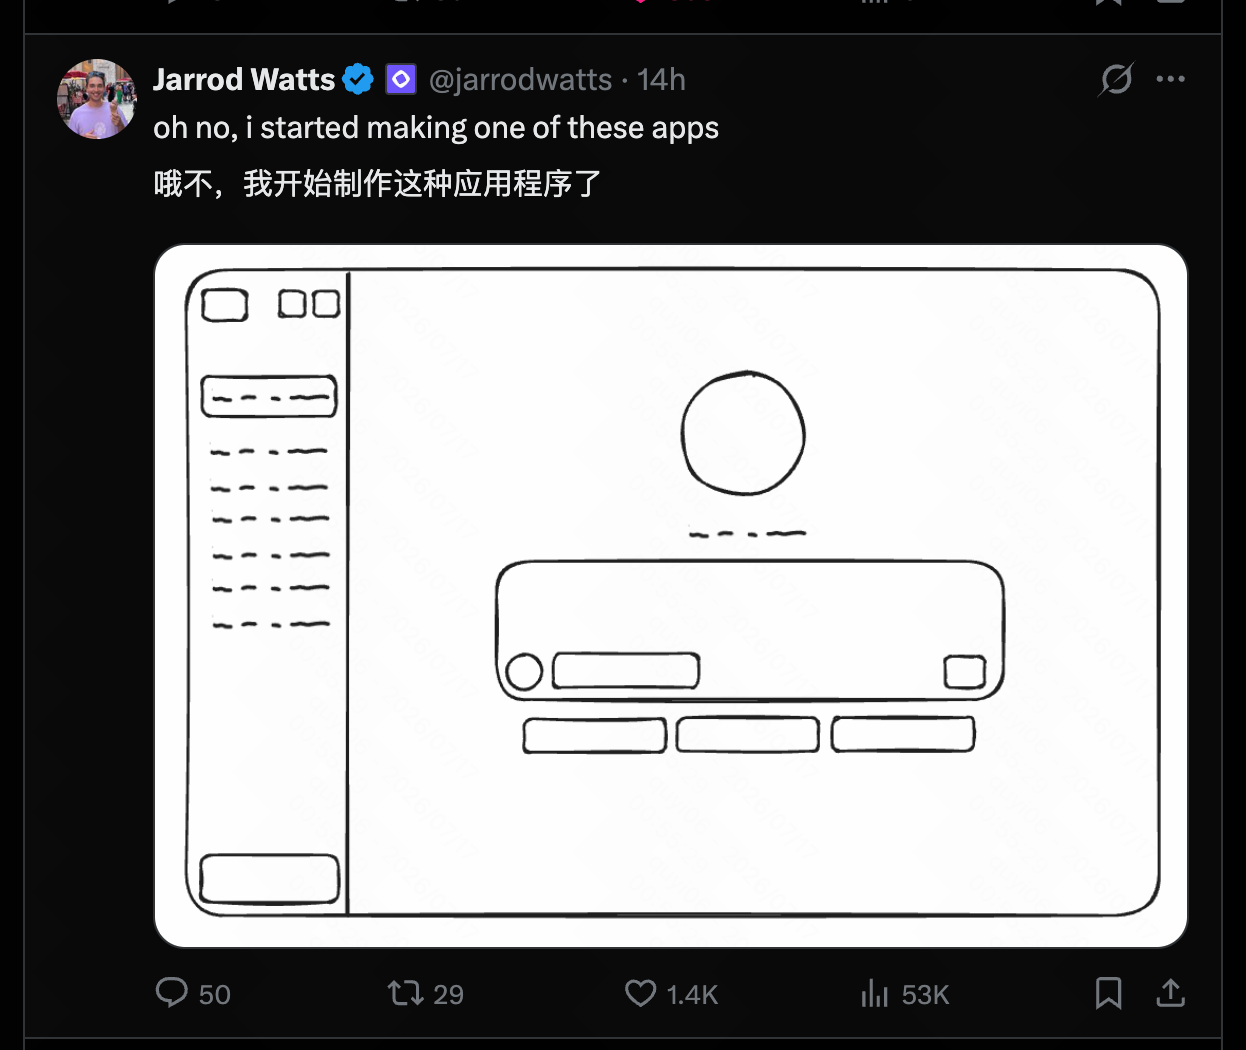
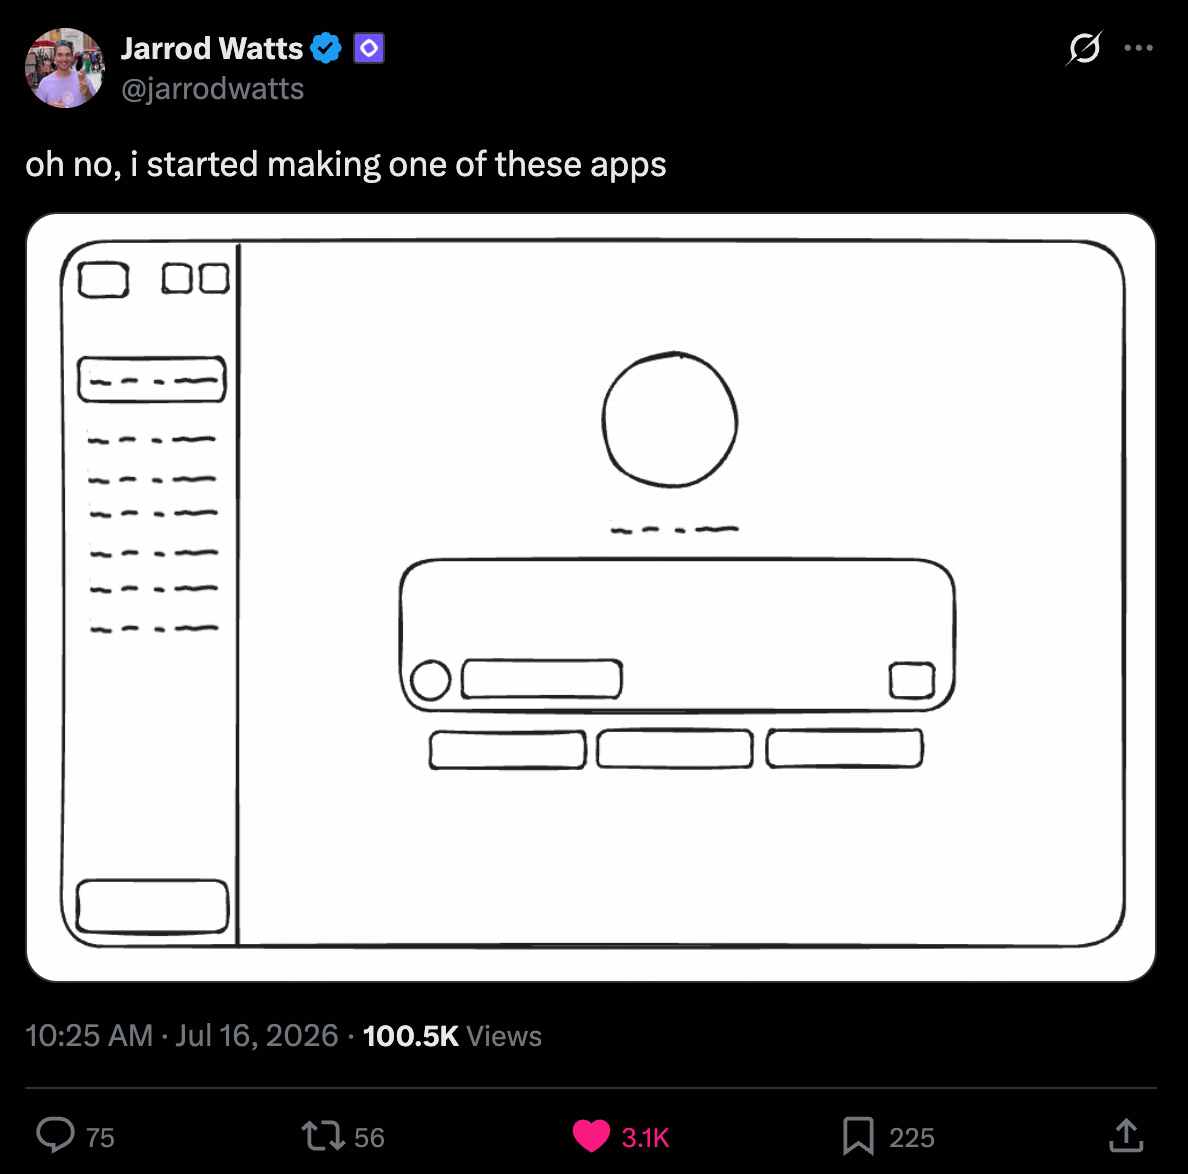
Use the cleaner example screenshot at a readable size
Constraint: Keep the example compact while preserving the link to the original post
Confidence: high
Scope-risk: narrow
Tested: git diff --check -- README.md; image dimensions 1188x1174
Not-tested: Documentation-only change

diff --git a/README.md b/README.md
@@ -22,7 +22,11 @@ Many apps try to imitate ChatGPT Desktop but always fall a little short, so I se
 
 A fun example of the trend: [“oh no, i started making one of these apps” — Jarrod Watts](https://x.com/jarrodwatts/status/2077580457303302240).
 
-[![Jarrod Watts sharing a ChatGPT Desktop-inspired app sketch](assets/screenshots/jarrod-watts-chatgpt-desktop-clone.png)](https://x.com/jarrodwatts/status/2077580457303302240)
+<p align="center">
+  <a href="https://x.com/jarrodwatts/status/2077580457303302240">
+    <img src="assets/screenshots/jarrod-watts-chatgpt-desktop-clone.png" width="480" alt="Jarrod Watts sharing a ChatGPT Desktop-inspired app sketch">
+  </a>
+</p>
 
 ## What works today
 
